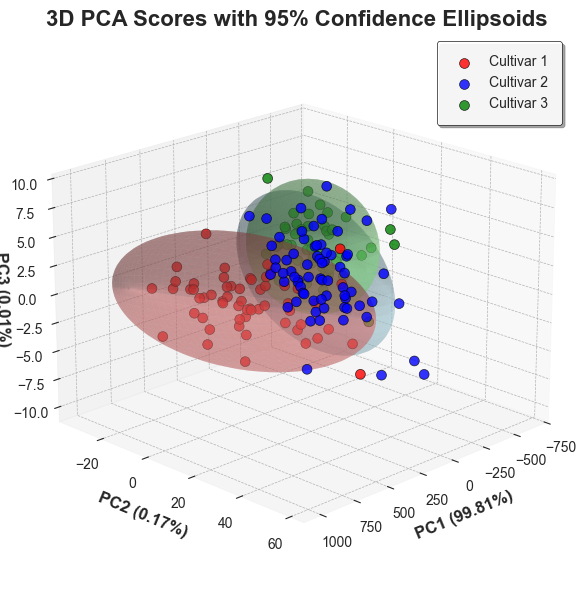
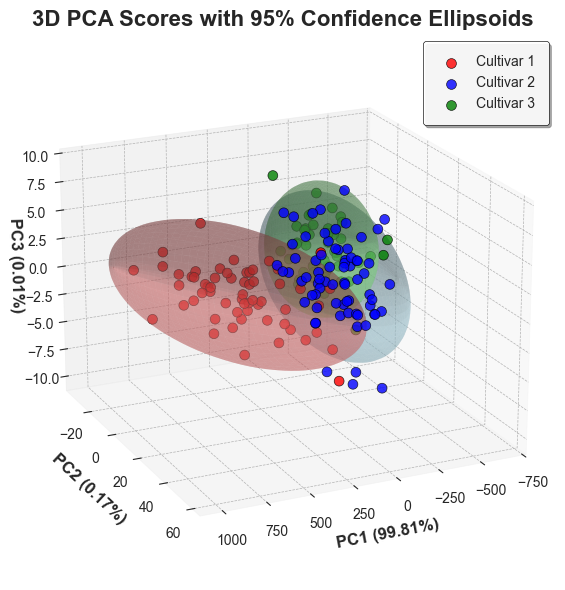
Updates

diff --git a/README.md b/README.md
@@ -282,7 +282,7 @@ ax.set_zlabel(f'PC3 ({explained_var[2]*100:.2f}%)', fontsize=12, labelpad=1, fon
 ax.set_title('3D PCA Scores with 95% Confidence Ellipsoids', fontsize=16, fontweight='bold')
 ax.legend(loc='upper right', fontsize=10, frameon=True, framealpha=0.9, edgecolor='black', shadow=True, facecolor='white', borderpad=1)
 ax.grid(True, alpha=0.3, color='gray')
-ax.view_init(elev=20, azim=45)
+ax.view_init(elev=20, azim=55)
 plt.tight_layout()
 plt.show()
 ```
